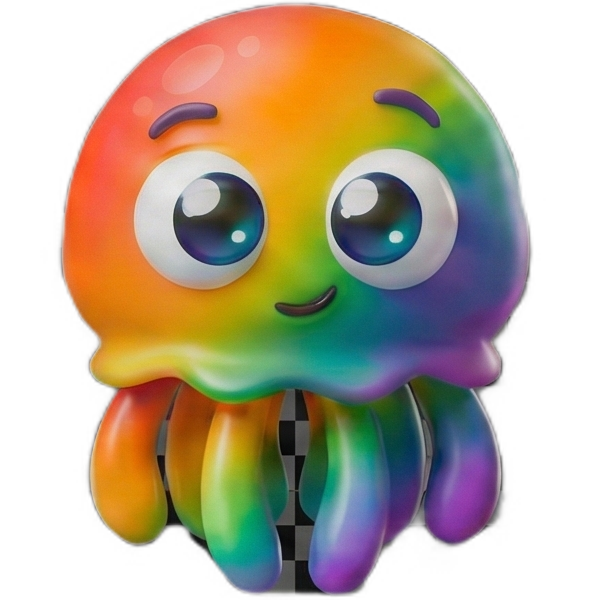
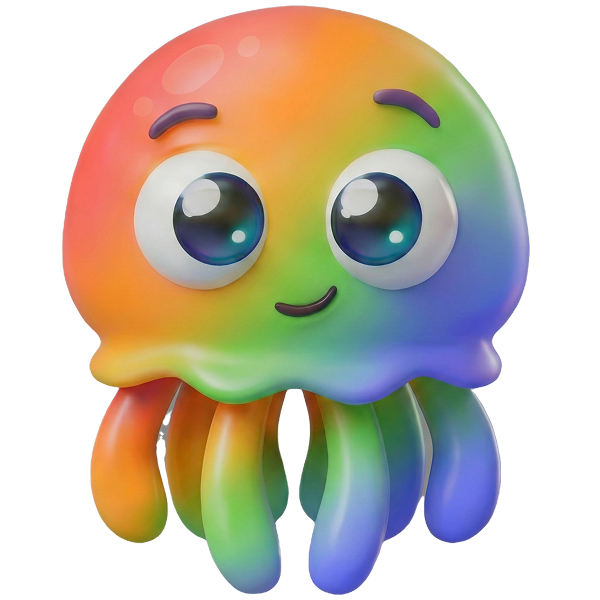
Update design system assets and styles
- Updated jellybeat mascot asset
- Added kindnet logo
- Updated globals.css and tailwind config
- Remove unused child layout file

🤖 Generated with [Claude Code](https://claude.com/claude-code)

diff --git a/web/app/globals.css b/web/app/globals.css
@@ -4,19 +4,33 @@
 
 @layer base {
   :root {
-    /* KindNet Brand Colors (from Figma) */
-    --kindnet-blurple: #6B7FFF;
-    --kindnet-blurple-light: #E8EBFF;
-    --kindnet-blurple-dark: #4A5FCC;
+    /* KindNet Brand Colors */
+    --blurple: #6B7FFF;
+    --blurple-light: #E8EBFF;
+    --blurple-dark: #4A5FCC;
 
-    /* Traffic Light System */
-    --safe-green: #7ED957;
-    --caution-amber: #FF9F40;
-    --alert-red: #FF6B6B;
+    /* Traffic Light System - Single source of truth for status colors */
+    --safe: #7ED957;
+    --safe-dark: #5FB839;
+    --caution: #FF9F40;
+    --caution-dark: #E88A2F;
+    --alert: #FF6B6B;
+    --alert-dark: #E85555;
+
+    /* Semantic Colors - Use traffic light system */
+    --success: var(--safe);
+    --success-bg: #E8F9EE;
+    --warning: var(--caution);
+    --warning-bg: #FFF4E5;
+    --error: var(--alert);
+    --error-bg: #FFE5E5;
+    --info: var(--blurple);
+    --info-bg: var(--blurple-light);
 
     /* Neutrals (iOS 18 Style) */
     --bg-primary: #FFFFFF;
     --bg-secondary: #F9F9F9;
+    --bg-tertiary: #F2F2F7;
     --surface-card: #FFFFFF;
 
     --text-primary: #1C1C1E;
@@ -25,6 +39,18 @@
 
     --divider: #E5E5EA;
     --divider-subtle: #F2F2F7;
+
+    /* Gray Scale */
+    --gray-50: #F9F9F9;
+    --gray-100: #F2F2F7;
+    --gray-200: #E5E5EA;
+    --gray-300: #D1D1D6;
+    --gray-400: #C6C6C8;
+    --gray-500: #8E8E93;
+    --gray-600: #48484A;
+    --gray-700: #3C3C43;
+    --gray-800: #1C1C1E;
+    --gray-900: #000000;
 
     /* Shadows (iOS 18 - Very Subtle) */
     --shadow-soft: 0 1px 4px rgba(0, 0, 0, 0.04);

diff --git a/web/.design-system/design-system.md b/web/.design-system/design-system.md
@@ -178,23 +178,23 @@ Ensure `tsconfig.json` has path aliases:
 --gray-900: #1C1C1E;
 ```
 
-#### Semantic Colors
+#### Semantic Colors (Use Traffic Light System)
 ```css
-/* Success/Positive */
---success: #34C759;              /* Apple System Green */
+/* Success/Positive - same as safe */
+--success: #7ED957;
 --success-bg: #E8F9EE;
 
-/* Warning */
---warning: #FF9500;              /* Apple System Orange */
+/* Warning - same as caution */
+--warning: #FF9F40;
 --warning-bg: #FFF4E5;
 
-/* Error */
---error: #FF3B30;                /* Apple System Red */
+/* Error - same as alert */
+--error: #FF6B6B;
 --error-bg: #FFE5E5;
 
-/* Info */
---info: #007AFF;                 /* Apple System Blue */
---info-bg: #E5F2FF;
+/* Info - same as blurple */
+--info: #6B7FFF;
+--info-bg: #E8EBFF;
 ```
 
 #### Tailwind Classes
